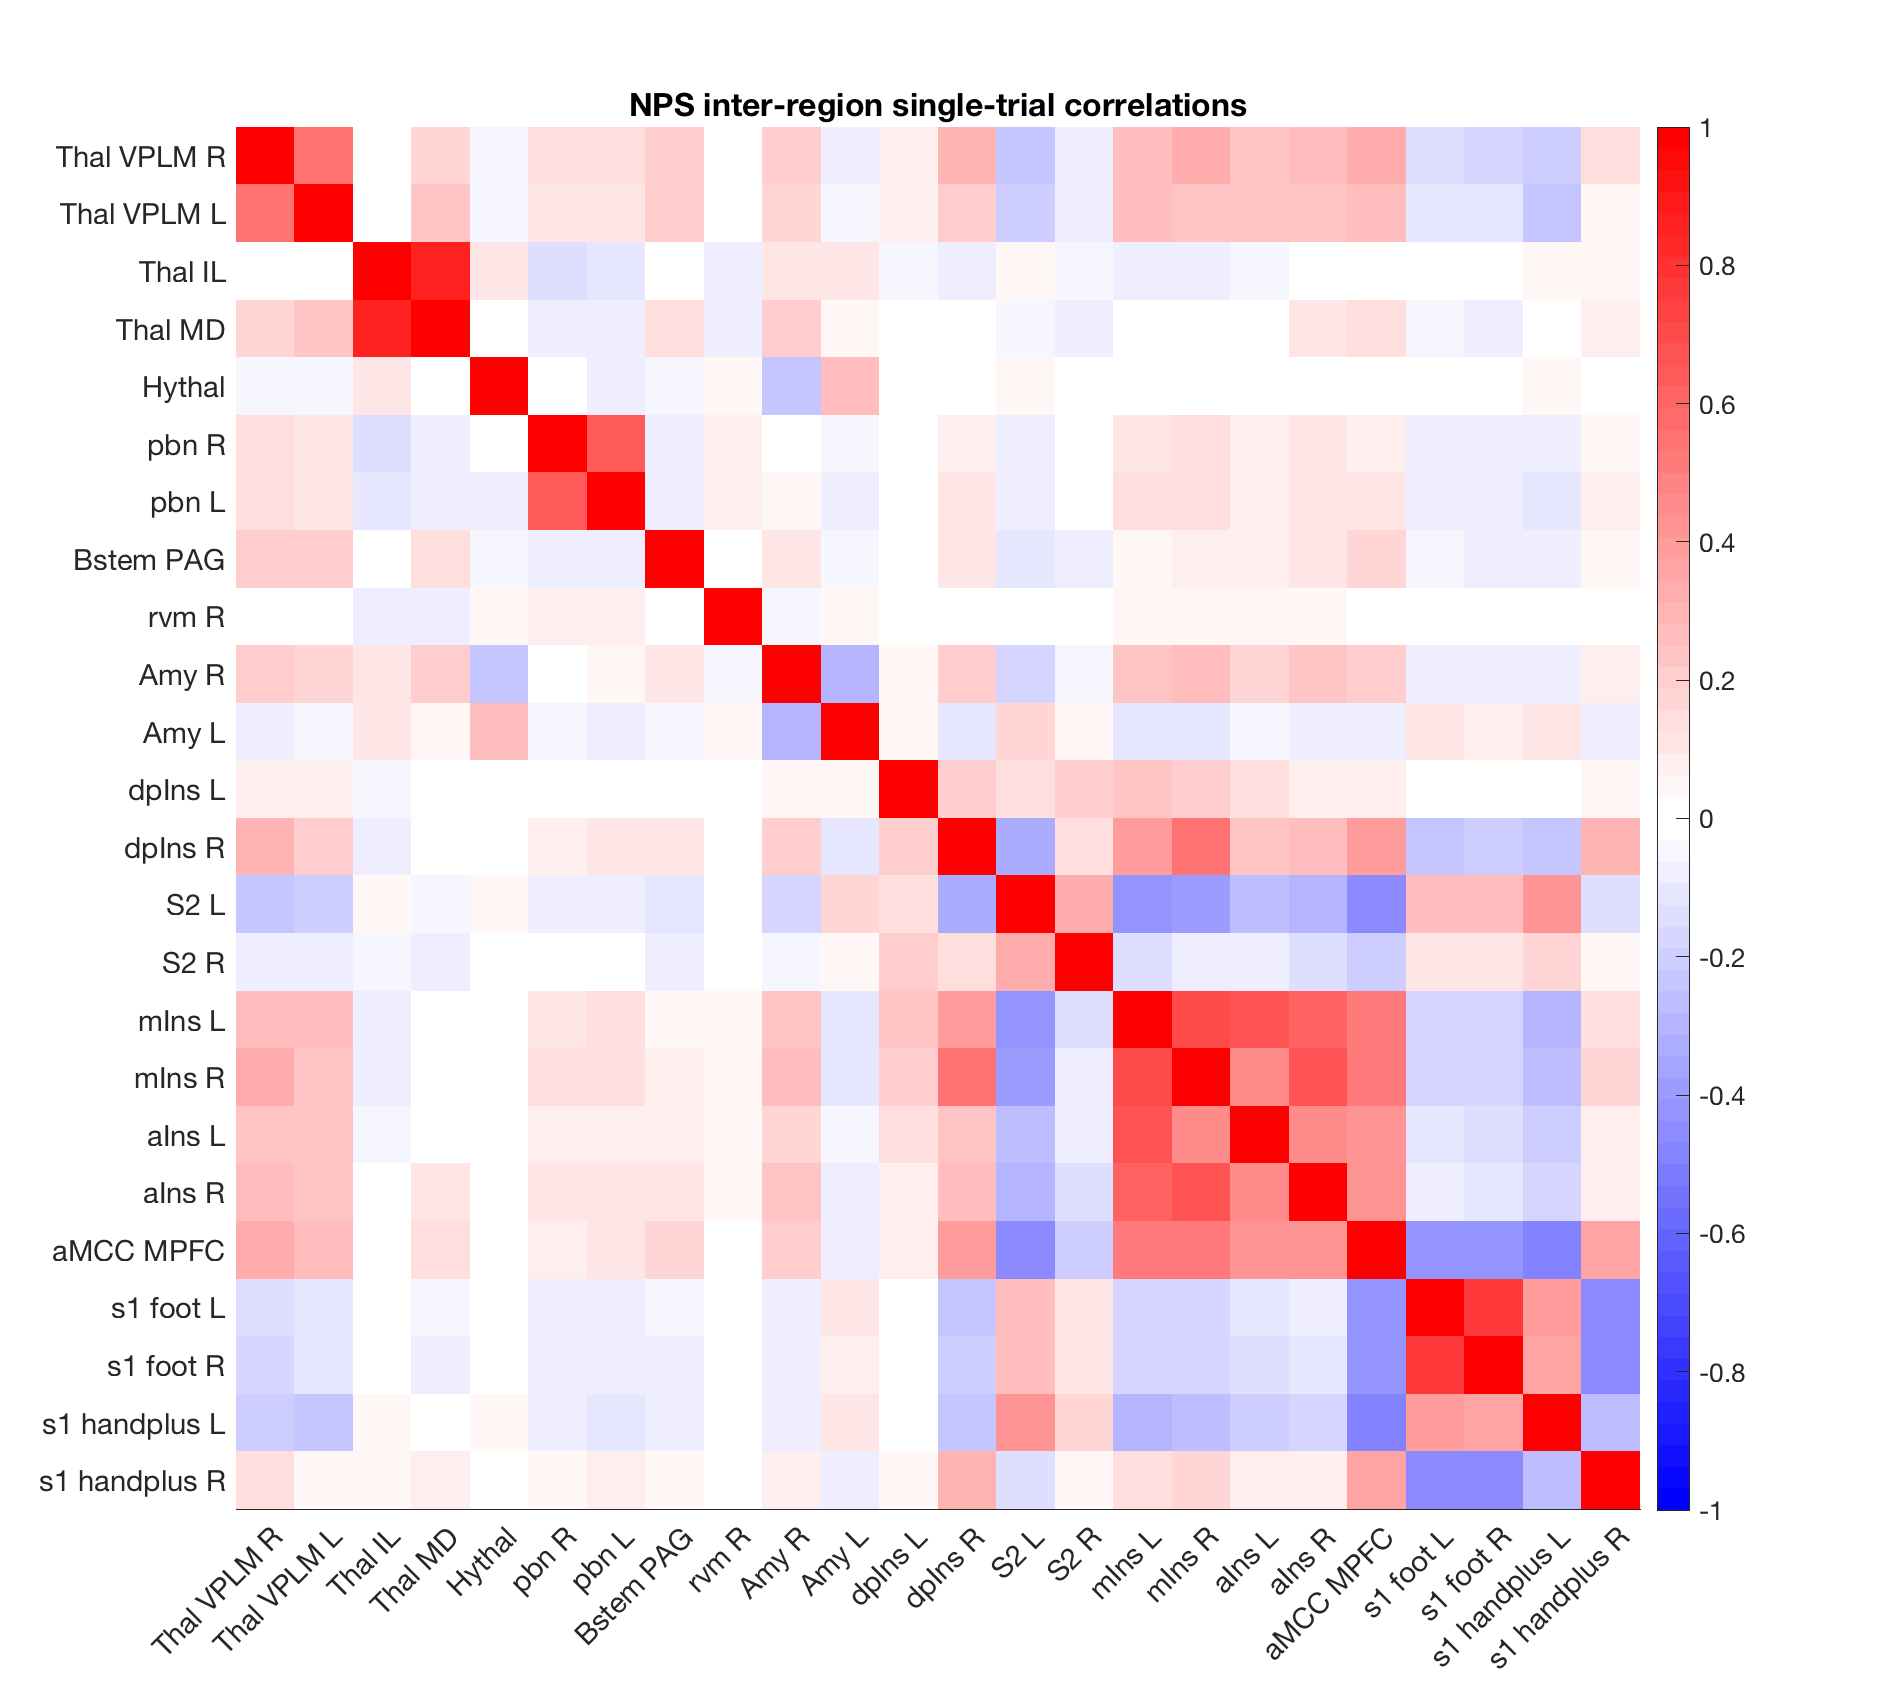
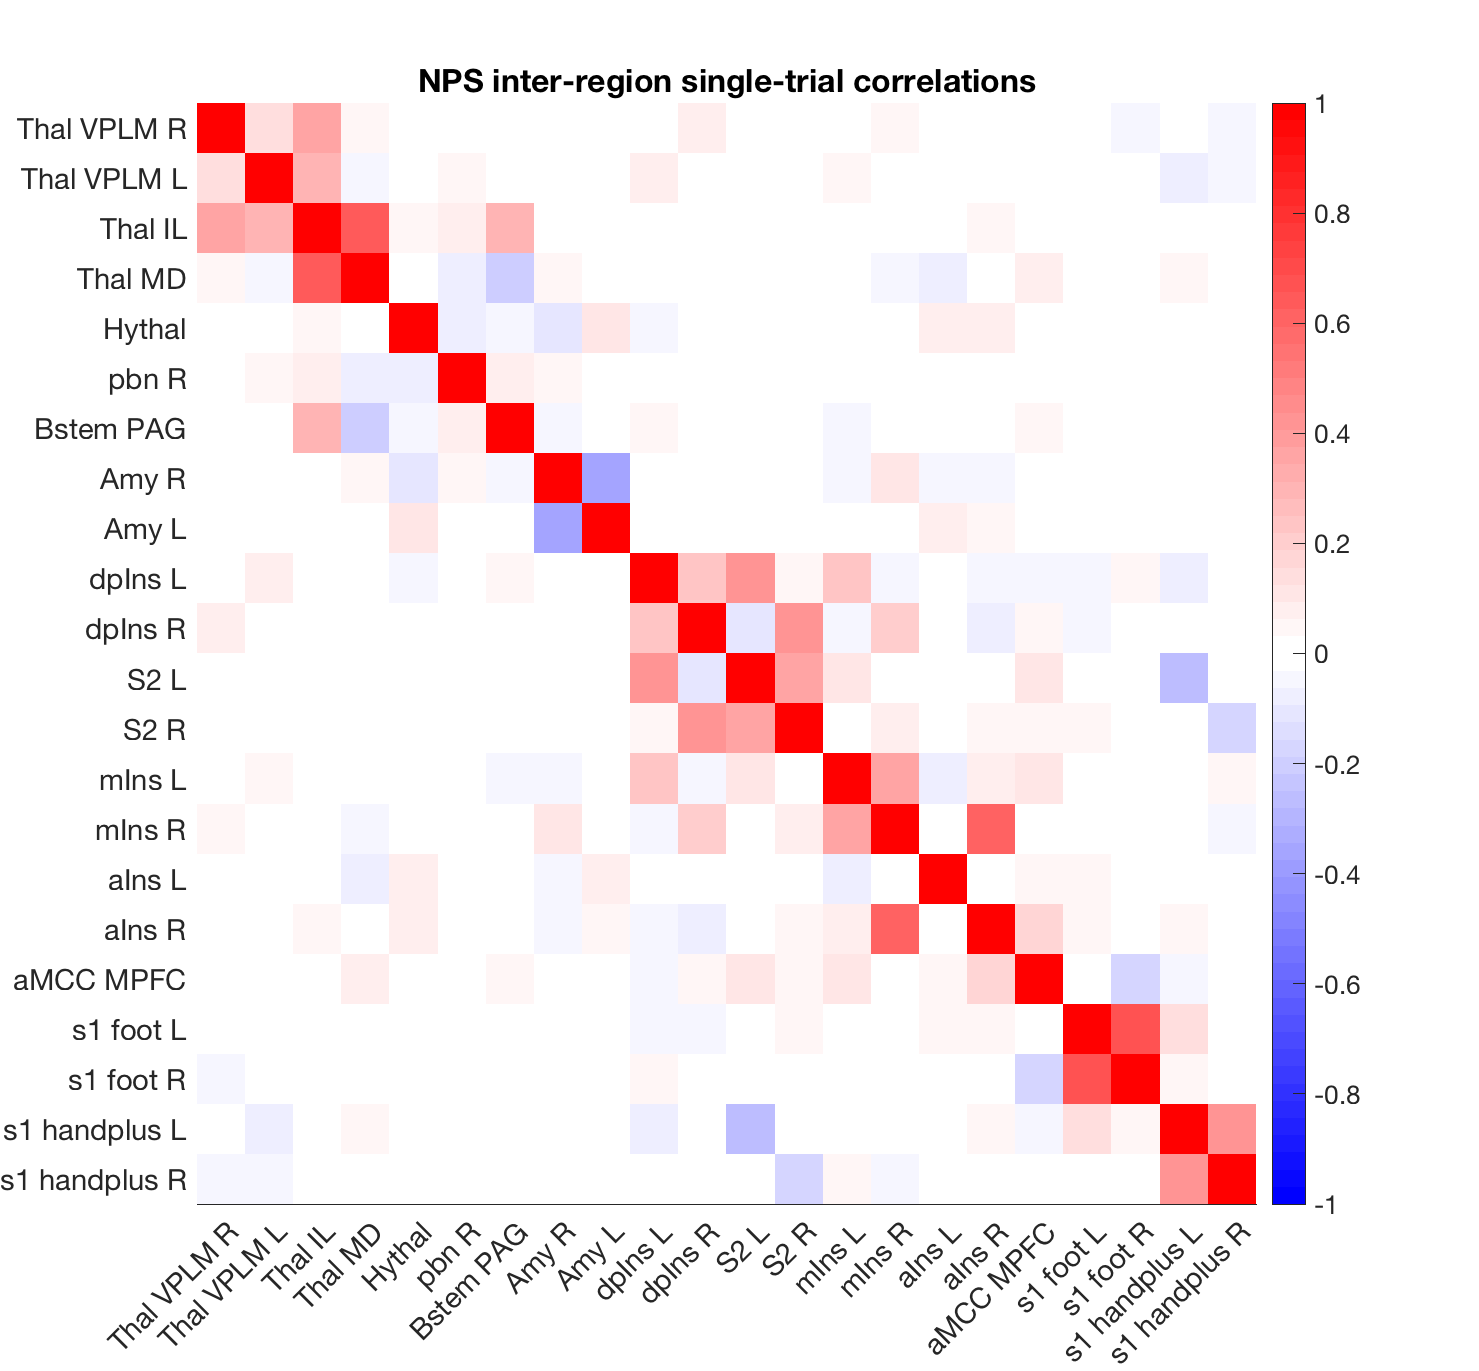
Create pain pathways brainnetwork (brainpathways object) - v1 alpha (working)

diff --git a/Atlases_and_parcellations/2019_Wager_pain_pathways/create_pain_pathways_brainnetwork.m b/Atlases_and_parcellations/2019_Wager_pain_pathways/create_pain_pathways_brainnetwork.m
@@ -358,7 +358,9 @@ load data/pain_pathways_single_trial_data_2019 ST_cleaned
 
 %% Examine associations with key brainstem regions - fine-grained
 
-rmat = corr(ST_cleaned.fine_regions);
+%rmat = corr(ST_cleaned.fine_regions);
+rmat = partialcorr(ST_cleaned.fine_regions, 'type', 'Spearman');
+
 labels = pain_pathways_finegrained.labels;
 
 create_figure('r');
@@ -374,16 +376,16 @@ colormap(cm)
 
 % max row values: most connected regions
 
-for i = 1:9 % do for brainstem regions 9 = rvm
+for i = 1:9 % do for brainstem regions 
     
-    fprintf('%s connected to ', pain_pathways_finegrained.labels{i});
-    wh = rmat(i, :) > prctile(rmat(i, :), 90); lab = pain_pathways_finegrained.labels(wh);
+    fprintf('%s connected to ', labels{i});
+    wh = rmat(i, :) > prctile(rmat(i, 10:end), 90); lab = labels(wh);
     for j = 1:length(lab), fprintf(' %s', lab{j}); end
     fprintf('\n');
     
 end
 
-% pre-windsorizing (z-score only)
+% pre-windsorizing (z-score only) standard Pearson's r
 % VPLVPM_R connected to  VPLVPM_R VPLVPM_L IntralamMidline_M Thal_MD_M Ctx_Ig_R Ctx_PoI2_R Ctx_MI_R
 % VPLVPM_L connected to  VPLVPM_R VPLVPM_L IntralamMidline_M Thal_MD_M Bstem_PAG Ctx_Ig_L Ctx_MI_L
 % IntralamMidline_M connected to  VPLVPM_R VPLVPM_L IntralamMidline_M Thal_MD_M Bstem_PAG Ctx_a24pr_L Ctx_a32pr_R
@@ -394,7 +396,7 @@ end
 % Bstem_PAG connected to  VPLVPM_R VPLVPM_L IntralamMidline_M Hythal pbn_R pbn_L Bstem_PAG
 % rvm_R connected to  pbn_R pbn_L rvm_R Ctx_PoI2_R Ctx_MI_L Ctx_MI_R Ctx_p32pr_R
 
-% post-windsorizing (latest)
+% post-windsorizing  standard Pearson's r
 % VPLVPM_R connected to  VPLVPM_R VPLVPM_L IntralamMidline_M Thal_MD_M Ctx_Ig_R Ctx_PoI2_R Ctx_MI_R
 % VPLVPM_L connected to  VPLVPM_R VPLVPM_L IntralamMidline_M Thal_MD_M Bstem_PAG Amygdala_AStr__L Ctx_Ig_L
 % IntralamMidline_M connected to  VPLVPM_R VPLVPM_L IntralamMidline_M Thal_MD_M Bstem_PAG Ctx_a24pr_L Ctx_a32pr_R
@@ -414,12 +416,24 @@ end
 % PBN to Hythal Bstem_PAG Ctx_PoI2_R (R from both L and R)
 % rvm to Ctx_PoI2_R Ctx_MI_L Ctx_MI_R Ctx_p32pr_R
 
+% Spearman's 
+% VPLVPM_R connected to  VPLVPM_R VPLVPM_L IntralamMidline_M pbn_R rvm_R Amygdala_CM__R Ctx_RI_R Ctx_Ig_R Ctx_PoI2_R Ctx_5mv_R Ctx_2_R
+% VPLVPM_L connected to  VPLVPM_R VPLVPM_L IntralamMidline_M Amygdala_CM__L Amygdala_AStr__L Ctx_RI_L Ctx_Ig_L Ctx_p24pr_L Ctx_2_L
+% IntralamMidline_M connected to  VPLVPM_R VPLVPM_L IntralamMidline_M Thal_MD_M Hythal Bstem_PAG Ctx_RI_R Ctx_Ig_L Ctx_Ig_R Ctx_AVI_R Ctx_1_R Ctx_3a_L
+% Thal_MD_M connected to  IntralamMidline_M Thal_MD_M Amygdala_CM__L Amygdala_CM__R Amygdala_SF__L Ctx_OP1_R Ctx_a24pr_L Ctx_a32pr_R
+% Hythal connected to  IntralamMidline_M Hythal pbn_R pbn_L Bstem_PAG Amygdala_SF__R Amygdala_SF__L Ctx_45_L Ctx_AVI_L Ctx_a24pr_L Ctx_a32pr_R
+% pbn_R connected to  VPLVPM_R VPLVPM_L Hythal pbn_R pbn_L Bstem_PAG rvm_R Amygdala_AStr__R Ctx_PFcm_R Ctx_PoI2_R Ctx_MI_L Ctx_AVI_R Ctx_p32pr_L
+% pbn_L connected to  VPLVPM_L Hythal pbn_R pbn_L Bstem_PAG rvm_R Amygdala_LB__L Ctx_PoI2_L Ctx_FOP3_R Ctx_AVI_L Ctx_a24pr_L Ctx_1_L
+% Bstem_PAG connected to  IntralamMidline_M Hythal pbn_R pbn_L Bstem_PAG Amygdala_CM__R Amygdala_AStr__L Ctx_PFcm_L Ctx_FOP2_L Ctx_33pr_R Ctx_a24pr_R
+% rvm_R connected to  VPLVPM_R VPLVPM_L pbn_R pbn_L rvm_R Ctx_OP1_L Ctx_RI_L Ctx_PoI2_R Ctx_FOP5_L Ctx_p32pr_R Ctx_5mv_R
+
 %% Examine associations with key brainstem regions: PDM1
 
 % rmat = corr([ST_cleaned.pdm1 ST_cleaned.pain_rating]);
 % labels = format_strings_for_legend({pain_regions_pdm1.shorttitle ['pain_rating']});
 
-rmat = corr(ST_cleaned.pdm1);
+%rmat = corr(ST_cleaned.pdm1);
+rmat = partialcorr(ST_cleaned.pdm1, 'type', 'Spearman');
 labels = format_strings_for_legend({pain_regions_pdm1.shorttitle});
 
 create_figure('r');
@@ -432,10 +446,30 @@ colormap(cm)
 title('PDM1 inter-region single-trial correlations');
 saveas(gcf, 'figures/PDM1_local_pattern_ST_connectivity_matrix.png');
 
+for i = 1:9 % do for brainstem regions 
+    
+    fprintf('%s connected to ', labels{i});
+    wh = rmat(i, :) > prctile(rmat(i, 10:end), 90); lab = labels(wh);
+    for j = 1:length(lab), fprintf(' %s', lab{j}); end
+    fprintf('\n');
+    
+end
+
+% Thal VPLM R connected to  Thal VPLM R Thal VPLM L Thal IL dpIns R
+% Thal VPLM L connected to  Thal VPLM R Thal VPLM L Thal IL dpIns L
+% Thal IL connected to  Thal VPLM R Thal VPLM L Thal IL Thal MD Hythal Bstem PAG aMCC MPFC
+% Thal MD connected to  Thal IL Thal MD Amy R
+% Hythal connected to  Thal IL Hythal pbn R Bstem PAG mIns R
+% pbn R connected to  Thal VPLM R Hythal pbn R pbn L Bstem PAG rvm R aIns R
+% pbn L connected to  Thal VPLM L Hythal pbn R pbn L Bstem PAG rvm R aIns L
+% Bstem PAG connected to  Thal IL Hythal pbn R pbn L Bstem PAG aMCC MPFC
+% rvm R connected to  Thal VPLM R Thal VPLM L Hythal pbn R pbn L rvm R s1 foot R
+
 
 %% Examine associations with key brainstem regions: SIIPS
 
-rmat = corr(ST_cleaned.SIIPS);
+% rmat = corr(ST_cleaned.SIIPS);
+rmat = partialcorr(ST_cleaned.SIIPS, 'type', 'Spearman');
 labels = format_strings_for_legend({pain_regions_siips.shorttitle});
 
 create_figure('r');
@@ -448,10 +482,31 @@ colormap(cm)
 title('SIIPS inter-region single-trial correlations');
 saveas(gcf, 'figures/SIIPS_local_pattern_ST_connectivity_matrix.png');
 
+for i = 1:9 % do for brainstem regions 
+    
+    fprintf('%s connected to ', labels{i});
+    wh = rmat(i, :) > prctile(rmat(i, 10:end), 90); lab = labels(wh);
+    for j = 1:length(lab), fprintf(' %s', lab{j}); end
+    fprintf('\n');
+    
+end
+
+% Thal VPLM R connected to  Thal VPLM R Thal VPLM L Thal MD dpIns R
+% Thal VPLM L connected to  Thal VPLM R Thal VPLM L Thal MD Bstem PAG aIns L
+% Thal IL connected to  Thal IL Thal MD Hythal s1 handplus R
+% Thal MD connected to  Thal VPLM R Thal VPLM L Thal IL Thal MD Bstem PAG Amy R
+% Hythal connected to  Thal IL Hythal Amy L
+% pbn R connected to  Thal VPLM R pbn R pbn L rvm R mIns R
+% pbn L connected to  Thal VPLM R Thal VPLM L pbn R pbn L rvm R s1 handplus R
+% Bstem PAG connected to  Thal VPLM R Thal MD Bstem PAG aMCC MPFC
+% rvm R connected to  pbn R pbn L rvm R Amy L
+
 %% Examine associations with key brainstem regions: NPS
 
-rmat = corr(ST_cleaned.SIIPS);
-labels = format_strings_for_legend({pain_regions_siips.shorttitle});
+%rmat = corr(ST_cleaned.NPS);
+rmat = partialcorr(ST_cleaned.NPS, 'type', 'Spearman');
+
+labels = format_strings_for_legend({pain_regions_nps.shorttitle});
 
 create_figure('r');
 imagesc(rmat, [-1 1])
@@ -462,3 +517,79 @@ cm = colormap_tor([0 0 1], [1 0 0], [1 1 1]);
 colormap(cm)
 title('NPS inter-region single-trial correlations');
 saveas(gcf, 'figures/NPS_local_pattern_ST_connectivity_matrix.png');
+
+for i = 1:9 % do for brainstem regions 
+    
+    fprintf('%s connected to ', labels{i});
+    wh = rmat(i, :) > prctile(rmat(i, 10:end), 90); lab = labels(wh);
+    for j = 1:length(lab), fprintf(' %s', lab{j}); end
+    fprintf('\n');
+    
+end
+
+% Partial Spearman corr:
+% Thal VPLM R connected to  Thal VPLM R Thal VPLM L Thal IL Thal MD dpIns R
+% Thal VPLM L connected to  Thal VPLM R Thal VPLM L Thal IL dpIns L
+% Thal IL connected to  Thal VPLM R Thal VPLM L Thal IL Thal MD Hythal pbn R Bstem PAG Amy R aIns R
+% Thal MD connected to  Thal VPLM R Thal IL Thal MD aMCC MPFC
+% Hythal connected to  Hythal Amy L aIns L
+% pbn R connected to  Thal VPLM R Thal VPLM L Thal IL pbn R Bstem PAG Amy R mIns R
+% Bstem PAG connected to  Thal IL pbn R Bstem PAG aMCC MPFC
+% Amy R connected to  Amy R mIns R
+% Amy L connected to  Hythal Amy L aIns L
+
+%% Examine associations with key brainstem regions: regions
+
+rmat = corr(ST_cleaned.big_regions);
+labels = format_strings_for_legend({pain_regions_siips.shorttitle});
+
+create_figure('r');
+imagesc(rmat, [-1 1])
+axis tight
+set(gca, 'YDir', 'reverse', 'YTick', 1:length(rmat),  'YTickLabel', labels, 'XTick', 1:length(rmat), 'XTickLabel', labels, 'XTickLabelRotation', 45);
+colorbar
+cm = colormap_tor([0 0 1], [1 0 0], [1 1 1]);
+colormap(cm)
+title('Region averages inter-region single-trial correlations');
+saveas(gcf, 'figures/Region_averages_ST_connectivity_matrix.png');
+
+for i = 1:9 % do for brainstem regions 9 = rvm
+    
+    fprintf('%s connected to ', pain_pathways.labels{i});
+    wh = rmat(i, :) > prctile(rmat(i, 10:end), 90); lab = pain_pathways.labels(wh);
+    for j = 1:length(lab), fprintf(' %s', lab{j}); end
+    fprintf('\n');
+    
+end
+
+% Thal_VPLM_R connected to  Thal_VPLM_R Thal_VPLM_L Thal_IL Thal_MD *mIns_R
+% Thal_VPLM_L connected to  Thal_VPLM_R Thal_VPLM_L Thal_IL Thal_MD Bstem_PAG *aMCC_MPFC
+% Thal_IL connected to  Thal_VPLM_R Thal_VPLM_L Thal_IL Thal_MD Bstem_PAG *aMCC_MPFC
+% Thal_MD connected to  Thal_VPLM_R Thal_VPLM_L Thal_IL Thal_MD *aMCC_MPFC
+% Hythal connected to  Hythal Bstem_PAG *Amy_L
+% pbn_R connected to  Thal_VPLM_R Thal_VPLM_L Hythal pbn_R pbn_L Bstem_PAG rvm_R *mIns_R
+% pbn_L connected to  Thal_VPLM_R Thal_VPLM_L Hythal pbn_R pbn_L Bstem_PAG rvm_R *mIns_R
+% Bstem_PAG connected to  Thal_VPLM_R Thal_VPLM_L Thal_IL Thal_MD Hythal pbn_R pbn_L Bstem_PAG *aMCC_MPFC
+% rvm_R connected to  pbn_R pbn_L rvm_R *mIns_R
+
+%% Notes
+
+% Notes on analysis so far:
+% Fine-grained regions seem to work fairly consistently in terms of
+% sensible thalamocortical pathways (spinothalamic) and lateral symmetry.
+% Pathways for patterns (PDM1, siips, nps) are less bilaterally symmetric
+% and make less sense. 
+% Thresholding methods are arbitrary (so far), so we need better connectivity metrics I think. 
+
+% ****NOTE: could do average within-person r and t-test on fisher's z
+% instead. ***
+% This does not allow for good covariate modeling and/or stable estimation
+% of partial correlations. We have a lot of trials (27174) so we can do
+% this well, but we probably want to make more assumptions and not allow
+% every subject to have a random intercept and random slope.  Actually,
+% data are z-scored so there is already a random subject intercept removed.
+
+
+
+
+

diff --git a/Atlases_and_parcellations/2019_Wager_pain_pathways/plot_pain_pathways_2019.m b/Atlases_and_parcellations/2019_Wager_pain_pathways/plot_pain_pathways_2019.m
@@ -1,0 +1,59 @@
+load data/pain_pathways_single_trial_data_2019 ST_cleaned
+load pain_pathways_region_obj_with_local_patterns.mat
+load pain_pathways_atlas_obj.mat
+
+%% Questions:
+%
+% dividing pattern by norm(weights) makes response invariant wrt scale of weights.
+% can we express intercept in units of the norm of training images in order
+% to make the intercept scale-free?
+%
+% To preserve intensity info:
+% Instead of cosine sim, can we normalize by the pattern weights and the
+% WHOLE image norm? But how to deal with missing data, which will affect
+% the norm?
+
+%%
+% post-windsorizing (latest)
+% VPLVPM_R connected to  VPLVPM_R VPLVPM_L IntralamMidline_M Thal_MD_M Ctx_Ig_R Ctx_PoI2_R Ctx_MI_R
+% VPLVPM_L connected to  VPLVPM_R VPLVPM_L IntralamMidline_M Thal_MD_M Bstem_PAG Amygdala_AStr__L Ctx_Ig_L
+% IntralamMidline_M connected to  VPLVPM_R VPLVPM_L IntralamMidline_M Thal_MD_M Bstem_PAG Ctx_a24pr_L Ctx_a32pr_R
+% Thal_MD_M connected to  VPLVPM_R VPLVPM_L IntralamMidline_M Thal_MD_M Ctx_a24pr_L Ctx_a24pr_R Ctx_a32pr_R
+% Hythal connected to  Hythal Bstem_PAG Amygdala_CM__L Amygdala_CM__R Amygdala_SF__R Amygdala_SF__L Amygdala_LB__L
+% pbn_R connected to  Hythal pbn_R pbn_L Bstem_PAG rvm_R Ctx_PoI2_R Ctx_MI_R
+% pbn_L connected to  VPLVPM_L Hythal pbn_R pbn_L Bstem_PAG rvm_R Ctx_PoI2_R
+% Bstem_PAG connected to  VPLVPM_R VPLVPM_L IntralamMidline_M Hythal pbn_R pbn_L Bstem_PAG
+% rvm_R connected to  pbn_R pbn_L rvm_R Ctx_PoI2_R Ctx_MI_L Ctx_MI_R Ctx_p32pr_R
+
+% VPLVPM to ipsiateral Ctx_Ig_L Ctx_MI_L maybe Ctx_PoI2_R
+
+% IntralamMidline_M to Ctx_a24pr_L Ctx_a32pr_R
+% Thal_MD_M to Ctx_a24pr_L Ctx_a24pr_R Ctx_a32pr_R
+
+%% Examine associations with key brainstem regions: PDM1
+
+% rmat = corr([ST_cleaned.pdm1 ST_cleaned.pain_rating]);
+% labels = format_strings_for_legend({pain_regions_pdm1.shorttitle ['pain_rating']});
+
+%rmat = corr(ST_cleaned.pdm1);
+rmat = partialcorr(ST_cleaned.pdm1, 'type', 'Spearman');
+labels = format_strings_for_legend({pain_regions_pdm1.shorttitle});
+
+create_figure('r');
+imagesc(rmat, [-1 1])
+axis tight
+set(gca, 'YDir', 'reverse', 'YTick', 1:length(rmat),  'YTickLabel', labels, 'XTick', 1:length(rmat), 'XTickLabel', labels, 'XTickLabelRotation', 45);
+colorbar
+cm = colormap_tor([0 0 1], [1 0 0], [1 1 1]);
+colormap(cm)
+title('PDM1 inter-region single-trial correlations');
+saveas(gcf, 'figures/PDM1_local_pattern_ST_connectivity_matrix.png');
+
+for i = 1:9 % do for brainstem regions 
+    
+    fprintf('%s connected to ', labels{i});
+    wh = rmat(i, :) > prctile(rmat(i, 10:end), 90); lab = labels(wh);
+    for j = 1:length(lab), fprintf(' %s', lab{j}); end
+    fprintf('\n');
+    
+end
